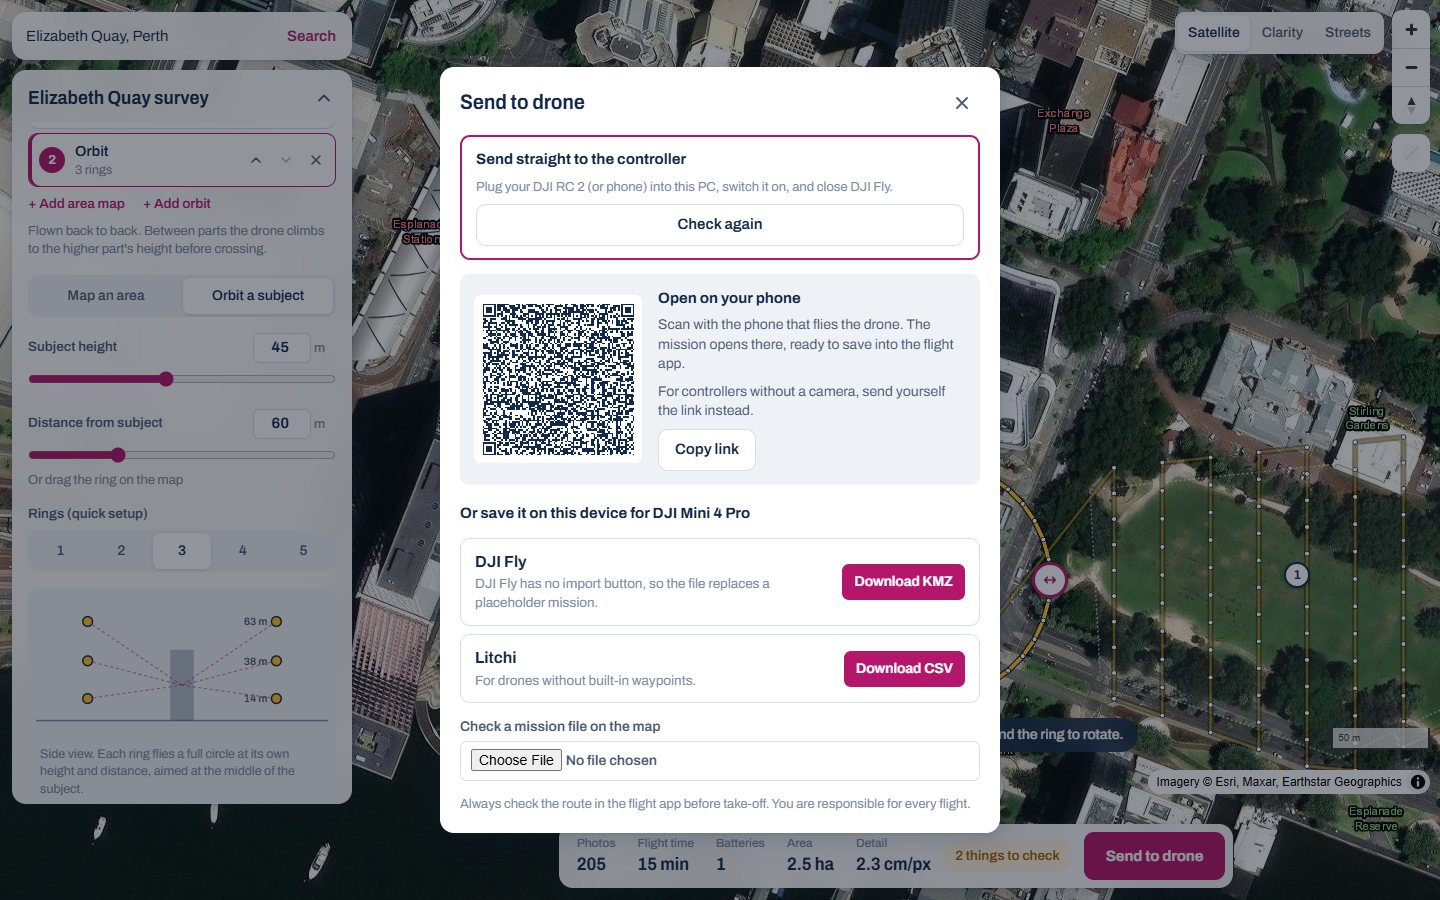
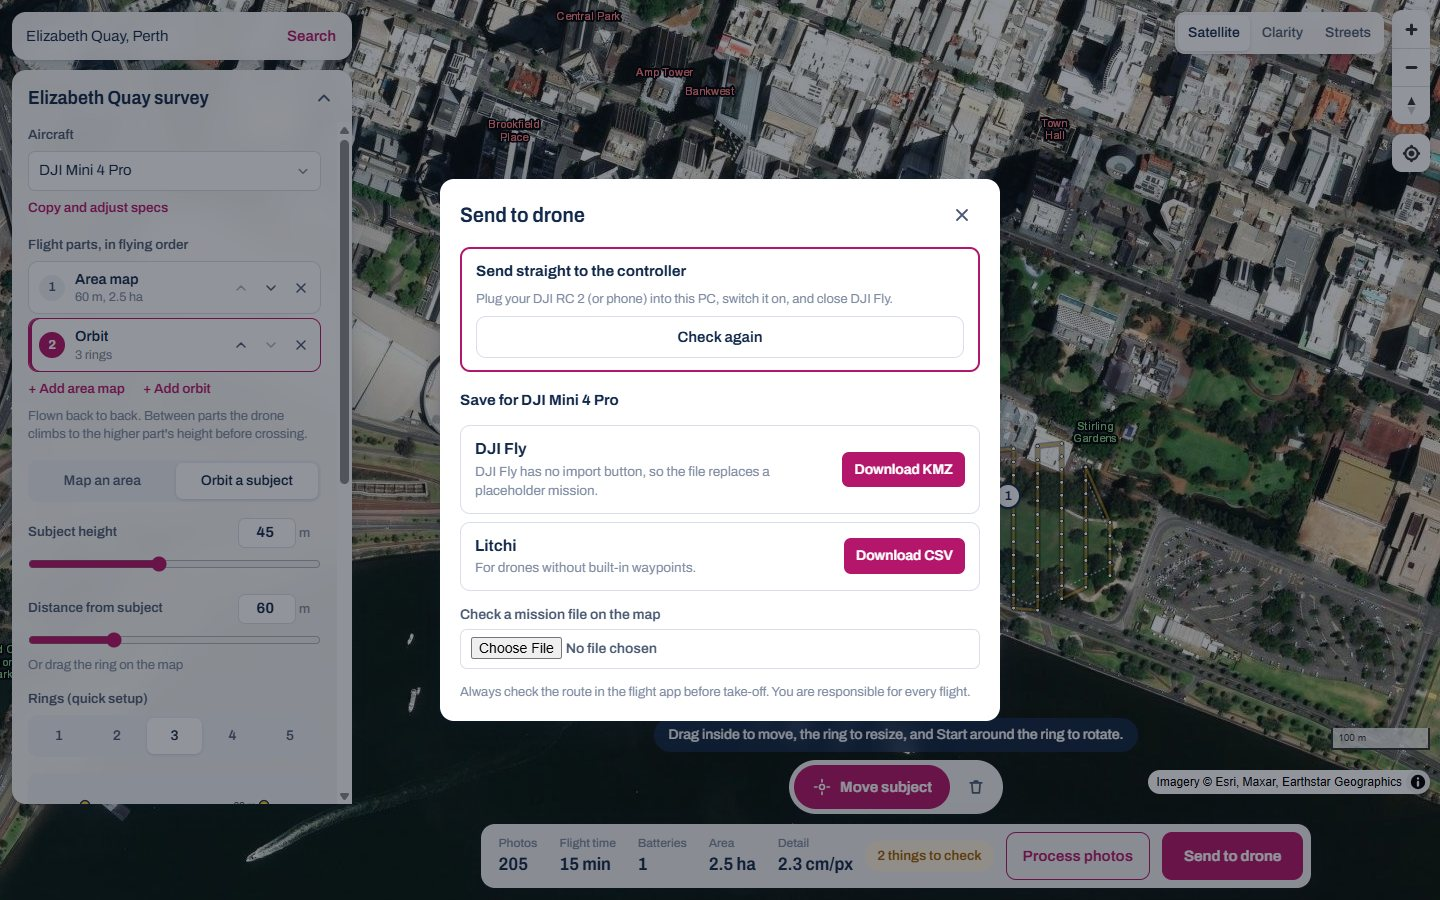
MIT licence; README is Windows-only (no phone/browser claims)
- LICENSE (MIT), badge and License section; Cargo/package metadata.
- Drop the phone section, QR hand-off row and browser claims; the send
  screenshot now comes from the Windows app.
- ARCHITECTURE: no PWA/Android plans; processing marked done.

diff --git a/README.md b/README.md
@@ -9,6 +9,7 @@ turn the photos into maps, 3D models and Gaussian splats, all from one app.**
 
 [![CI](https://github.com/FlightXCaptain/Drone-Mapping/actions/workflows/ci.yml/badge.svg)](https://github.com/FlightXCaptain/Drone-Mapping/actions/workflows/ci.yml)
 [![Latest release](https://img.shields.io/github/v/release/FlightXCaptain/Drone-Mapping?label=Windows%20installer)](https://github.com/FlightXCaptain/Drone-Mapping/releases/latest)
+[![License: MIT](https://img.shields.io/badge/license-MIT-blue)](LICENSE)
 
 <img src="docs/images/plan.jpg" alt="A mapping grid over the Supreme Court Gardens and an orbit of the Bell Tower, planned at Elizabeth Quay, Perth, with live flight stats" width="900">
 
@@ -21,7 +22,7 @@ turn the photos into maps, 3D models and Gaussian splats, all from one app.**
 | | |
 |---|---|
 | **1. Plan** | Draw an area to map or drop a subject to orbit, right on satellite imagery. The route, photo positions, flight time and battery count update as you drag. |
-| **2. Send** | One click puts the mission on a DJI RC 2 / RC over USB, with backups and verification. Or export for DJI Pilot 2 or Litchi, or hand it to a phone with a QR code. |
+| **2. Send** | One click puts the mission on a DJI RC 2 / RC over USB, with backups and verification. Or export a file for DJI Pilot 2 or Litchi. |
 | **3. Check** | Read the mission back off the controller and see every waypoint on the map, with coordinates, heights and a diff against your plan, before you fly. |
 | **4. Process** | Plug in the controller or SD card and the app finds the photos, checks every planned shot was taken, then makes a photogrammetry model (orthophoto map + textured 3D) or a Gaussian splat on your PC, and shows it on the map or in 3D. |
 
@@ -33,8 +34,7 @@ and run it. Each new version installs straight over the previous one.
 > The installer isn't code-signed yet, so Windows SmartScreen may ask you to confirm
 > (*More info → Run anyway*).
 
-The planner also runs in any browser (phone, tablet, laptop) and works offline once loaded; see
-[Develop](#develop). Sending over USB and processing photos need the Windows app.
+Runs on Windows 10 and 11.
 
 ## Planning
 
@@ -58,14 +58,13 @@ The planner also runs in any browser (phone, tablet, laptop) and works offline o
 
 ## Sending to the drone
 
-<img src="docs/images/send.jpg" alt="The Send to drone dialog: one-click send to a DJI RC 2, KMZ/CSV downloads and a QR hand-off" width="900">
+<img src="docs/images/send.jpg" alt="The Send to drone dialog: one-click send to a DJI RC 2 over USB, plus KMZ and CSV downloads" width="900">
 
 | Your drone runs | How the mission gets there |
 |---|---|
 | **DJI Fly** (Mini 4/5 Pro, Air 3/3S, Mavic 3/4) | **Send to DJI RC 2**: the desktop app writes the mission into a placeholder over USB. Or download a KMZ. |
 | **DJI Pilot 2** (Enterprise / Matrice) | Download a WPML KMZ and use *Import Route*. |
 | **Litchi** (older drones without waypoints) | Download a Litchi Mission Hub CSV. |
-| **A phone or tablet in the field** | Scan the QR code. The plan opens in the app on the phone, even offline. |
 
 **Controller safety.** The USB transfer only ever writes one file
 (`waypoint/<mission>/<mission>.kmz`). It validates the mission first, refuses to change anything
@@ -131,22 +130,12 @@ Splats train on the graphics card. Built-in graphics work, but an NVIDIA or AMD 
 or more is several times faster. Splats from orbit flights come out much sharper than from
 mapping grids.
 
-## On a phone
-
-<img src="docs/images/phone.jpg" alt="The planner on a phone" width="300" align="right">
-
-The planner is a progressive web app: open it on a phone or tablet, add it to the home screen,
-and it works without signal. Plans move between devices as a link or QR code; nothing is uploaded
-anywhere.
-
-<br clear="right">
-
 ## Develop
 
 ```bash
 cd app
 npm install
-npm run dev            # planner in the browser: http://localhost:5173
+npm run dev            # UI in a browser for development: http://localhost:5173
 npm test               # planners, exporters, coverage, flights and hardware rules (vitest)
 npm run desktop        # the Windows app in development (needs Rust)
 npm run desktop:build  # MSI → app/src-tauri/target/release/bundle/msi/
@@ -185,3 +174,7 @@ OpenStreetMap contributors.
 
 Not affiliated with or endorsed by DJI. DJI, DJI Fly and DJI Pilot are trademarks of SZ DJI
 Technology Co., Ltd.
+
+## License
+
+[MIT](LICENSE). The processing engines the app downloads keep their own licences (see Credits).

diff --git a/docs/ARCHITECTURE.md b/docs/ARCHITECTURE.md
@@ -37,9 +37,9 @@ Built-in profiles live in `app/src/domain/drones.ts`. Clients can copy or add th
 ## Architecture
 
 ```
-app/  (React + Vite + TypeScript; runs in the browser as a PWA and inside the Tauri desktop app)
+app/  (React + Vite + TypeScript UI, packaged as a Windows desktop app with Tauri)
  └─ src/
-    ├─ domain/          Pure TS, no UI. Unit tested. Portable to a future mobile app.
+    ├─ domain/          Pure TS, no UI. Unit tested.
     │   ├─ photogrammetry.ts   GSD ⇄ altitude, footprint, overlap → spacing
     │   ├─ geo.ts              local metric frame, distance, bearing
     │   ├─ planners/grid.ts    lawnmower (+crosshatch) over any polygon
@@ -102,10 +102,8 @@ Photos → results, on the user's own PC, inside the desktop app. No server or D
 
 1. **Planner MVP** (this commit): draw area or point, grid or orbit, live stats, KMZ/CSV export,
    custom drones.
-2. **Field polish**: PWA offline tiles, terrain follow, KML import, mission library, split by
+2. **Field polish**: offline map tiles, terrain follow, KML import, mission library, split by
    battery, airspace overlay.
-3. **Android companion (DJI MSDK v5)**: runs on the RC Pro / RC Plus / phone, pulls missions from
-   the web app by QR code or link, uploads them straight to the aircraft and shows live telemetry.
-   This removes the DJI Fly file-swap step.
-4. **Processing**: upload photos → ODM / splat jobs → in-browser 3D viewers.
-5. **Multi-tenant**: organisations, client portals, shared drone fleets, auth.
+3. **Processing** (done): photos → OpenDroneMap / COLMAP + Brush jobs on the PC → map overlay and
+   built-in 3D viewer.
+4. **Multi-tenant**: organisations, client portals, shared drone fleets, auth.
